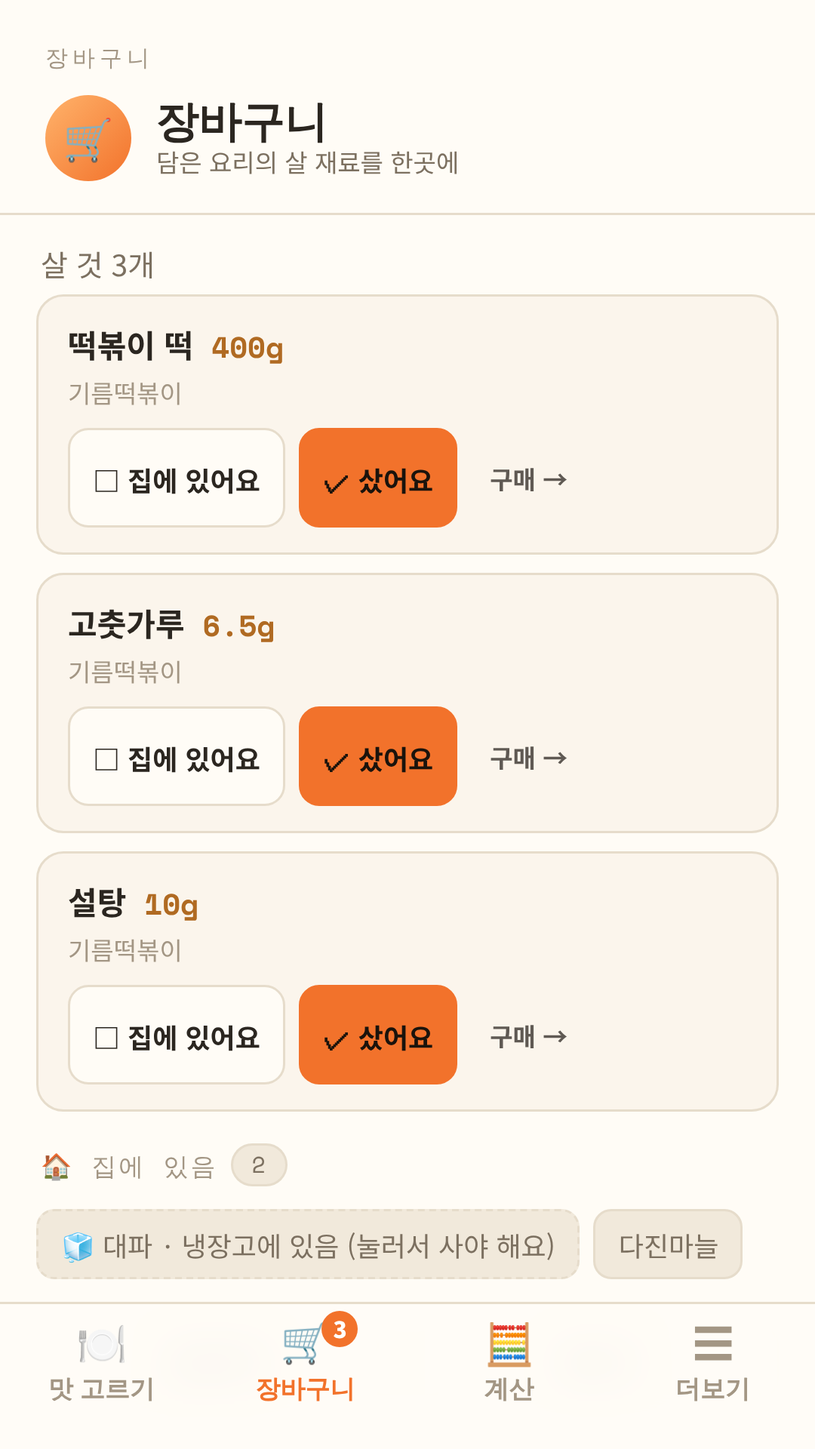
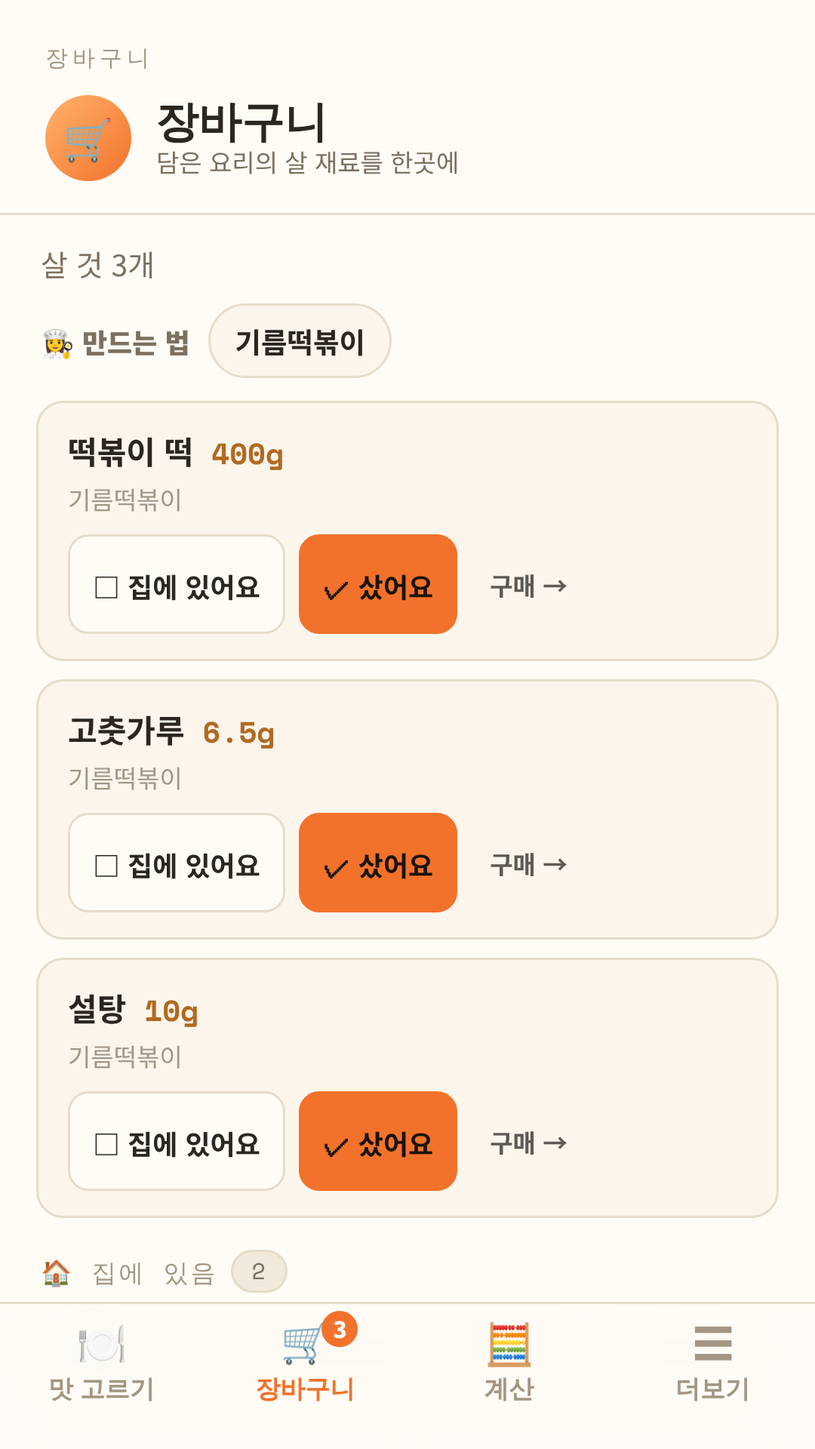
feat(cook): 맛 카드 요리 23개에 조리 순서, 만드는 법 화면, 장바구니에서 다시 열기
Claude-Session: https://claude.ai/code/session_017KWaKnS2P9UBMi724z59cy

diff --git a/cook/index.html b/cook/index.html
@@ -338,6 +338,20 @@
   .dish-serv{display:flex;align-items:center;gap:8px;margin:12px 0}
   .dish-serv span{font-size:12px;color:var(--muted);margin-right:4px}
   .dish-add{display:block;width:100%;font-family:var(--body);font-weight:900;font-size:14px;color:#1a130c;background:linear-gradient(135deg,#FFB36B,#FF8A4C);border:none;border-radius:13px;padding:13px;cursor:pointer}
+  .dish-how{display:block;width:100%;font-family:var(--body);font-weight:800;font-size:14px;color:var(--text);background:var(--surface);border:1px solid var(--border);border-radius:13px;padding:12px;margin-bottom:8px;cursor:pointer}
+  .dish-back,.dish-close{font-family:var(--body);font-weight:700;font-size:13px;color:var(--muted);background:none;border:none;padding:4px 0 10px;cursor:pointer}
+  .dish-close{display:block;width:100%;text-align:center;padding:12px 0 0}
+  .howto-sec{font-size:12px;font-weight:800;color:var(--muted);margin:12px 0 6px}
+  .howto-ing{list-style:none;margin:0;padding:0;display:grid;grid-template-columns:1fr 1fr;gap:4px 12px;font-size:13px}
+  .howto-ing li{display:flex;justify-content:space-between;gap:6px;border-bottom:1px dashed var(--border);padding:3px 0}
+  .howto-ing b{color:var(--accent);font-weight:800;white-space:nowrap}
+  .howto-steps{margin:0;padding-left:20px;font-size:14px;line-height:1.6}
+  .howto-steps li{margin-bottom:8px}
+  .howto-tip{font-size:12.5px;color:var(--muted);background:var(--surface);border-radius:10px;padding:9px 11px;margin:10px 0 14px}
+  .cart-cook{display:flex;flex-wrap:wrap;gap:6px;align-items:center;padding:4px 18px 10px}
+  .cart-cook:empty{display:none}
+  .cart-cook span{font-size:12px;font-weight:800;color:var(--muted);margin-right:2px}
+  .cart-cook button{font-family:var(--body);font-size:12.5px;font-weight:700;color:var(--text);background:var(--surface);border:1px solid var(--border);border-radius:99px;padding:6px 11px;cursor:pointer}
   .toastmsg{position:fixed;left:50%;bottom:calc(var(--navh) + env(safe-area-inset-bottom) + 64px);transform:translateX(-50%);background:#2B2620;color:#fff;border-radius:99px;padding:9px 16px;font-size:13px;font-weight:700;z-index:60;opacity:0;pointer-events:none;transition:opacity .2s;white-space:nowrap;max-width:90%}
   .toastmsg.show{opacity:1}
   .style-cart-btn{margin-top:10px}
@@ -569,6 +583,7 @@
       </div>
     </div>
     <div class="cart-sum" id="cartSum"></div>
+    <div class="cart-cook" id="cartCook"></div>
     <div id="cartList"></div>
     <div id="cartHomeHdr"></div>
     <div id="cartHome"></div>
@@ -1219,7 +1234,7 @@ STYLES.forEach(s=>{ const el=document.createElement("button"); el.className="chi
   styleChips.appendChild(el); });
 let _dishesReady=false;
 function showStyleDesc(){ const s=STYLE(calcState.stylePresetId); $("styleDesc").textContent=s.desc + (TEMPLATES[s.id]?" · (검증된 전용 레시피 적용)":"");
-  const sc=$("styleCart"); if(sc) sc.innerHTML=(_dishesReady&&TASTE_DISHES[s.id])?`<button class="sd-apply-btn style-cart-btn" id="styleCartBtn" onclick="openDishPicker('${s.id}')">🛒 살 재료 담기</button>`:""; }
+  const sc=$("styleCart"); if(sc) sc.innerHTML=(_dishesReady&&TASTE_DISHES[s.id])?`<button class="sd-apply-btn style-cart-btn" id="styleCartBtn" onclick="openDishPicker('${s.id}')">🛒 살 재료 · 만드는 법</button>`:""; }
 showStyleDesc();
 $("intensitySeg").addEventListener("click", e=>{ const b=e.target.closest("button"); if(!b)return;
   calcState.intensity=b.dataset.v; [...$("intensitySeg").children].forEach(x=>x.classList.toggle("on",x===b)); });
@@ -1953,7 +1968,7 @@ function renderSenseDetail(idx){
   const w=TASTE_WORDS[idx];
   const bars=SW_KEYS.map((k,ki)=>`<div class="sd-taste-item"><div class="sd-taste-label" style="color:${SW_COLORS[ki]}">${SW_LABELS[ki]}</div><div class="sd-taste-bar-wrap"><div class="sd-taste-bar" style="width:${(w.v[k]||0)*10}%;background:${SW_COLORS[ki]}"></div></div><div class="sd-taste-val">${(w.v[k]||0).toFixed(1)}</div></div>`).join("");
   const dishes=w.dishes.map(d=>`<button class="sd-dish-chip" onclick="goRecipe('${d.replace(/'/g,"\\'")}')">${d}</button>`).join("");
-  $("senseDetail").innerHTML=`<div class="sense-detail"><div class="sd-head"><div class="sd-em">${w.em}</div><div class="sd-left"><div class="sd-nm">${w.nm}</div></div></div><div class="sd-body"><div class="sd-desc">${w.desc}</div><div class="sd-taste-row">${bars}</div><div class="sd-dishes">${dishes}</div><button class="sd-apply-btn" onclick="applySenseToExplore(${idx})">🎚 이 맛으로 맛 그래프 열기</button>${w.sid?`<button class="sd-apply-btn" style="margin-top:8px" onclick="goCalcWithStyle('${w.sid}')">⚖ 이 맛으로 g 배합 계산하기</button>`:""}${w.sid&&TASTE_DISHES[w.sid]?`<button class="sd-apply-btn" style="margin-top:8px" onclick="openDishPicker('${w.sid}')">🛒 살 재료 담기</button>`:""}</div></div>`;
+  $("senseDetail").innerHTML=`<div class="sense-detail"><div class="sd-head"><div class="sd-em">${w.em}</div><div class="sd-left"><div class="sd-nm">${w.nm}</div></div></div><div class="sd-body"><div class="sd-desc">${w.desc}</div><div class="sd-taste-row">${bars}</div><div class="sd-dishes">${dishes}</div><button class="sd-apply-btn" onclick="applySenseToExplore(${idx})">🎚 이 맛으로 맛 그래프 열기</button>${w.sid?`<button class="sd-apply-btn" style="margin-top:8px" onclick="goCalcWithStyle('${w.sid}')">⚖ 이 맛으로 g 배합 계산하기</button>`:""}${w.sid&&TASTE_DISHES[w.sid]?`<button class="sd-apply-btn" style="margin-top:8px" onclick="openDishPicker('${w.sid}')">🛒 살 재료 · 만드는 법</button>`:""}</div></div>`;
 }
 function applySenseToExplore(idx){
   const w=TASTE_WORDS[idx];
@@ -2021,52 +2036,52 @@ const STYLE_VECTORS={
 /* 맛 → 대표 요리 (장바구니용). recipe가 있으면 RECIPES 재료 그대로, 없으면 main + 계산된 양념 */
 const TASTE_DISHES={
   pa_oil:[
-    {name:"파기름 볶음밥",emoji:"🍳",cat:"rice_bowl",gPerServing:165,main:[{name:"밥",per1:1,unit:"공기"},{name:"계란",per1:1,unit:"개"},{name:"대파",per1:0.5,unit:"대"}]},
+    {name:"파기름 볶음밥",steps:["대파를 송송 썰고, 계란은 그릇에 풀어 둬요.", "팬에 식용유와 대파를 넣고 약한 불에서 2~3분, 파가 노릇해지고 향이 날 때까지 볶아 파기름을 내요.", "파를 한쪽으로 밀고 계란을 부어 젓가락으로 휘저어 반쯤 익혀요.", "밥을 넣고 센 불로 올려 2분 볶아요. 양념은 팬 가장자리에 둘러 지글 끓인 뒤 밥과 섞어요.", "맛을 보고 싱거우면 소금을 조금씩 더해요."],emoji:"🍳",cat:"rice_bowl",gPerServing:165,main:[{name:"밥",per1:1,unit:"공기"},{name:"계란",per1:1,unit:"개"},{name:"대파",per1:0.5,unit:"대"}]},
     {name:"계란볶음밥",emoji:"🍚",recipe:"계란볶음밥",main:[]},
-    {name:"파기름 비빔국수",emoji:"🍜",cat:"noodle_pasta",gPerServing:165,main:[{name:"소면",per1:100,unit:"g"},{name:"대파",per1:1,unit:"대"}]}
+    {name:"파기름 비빔국수",steps:["대파를 아주 잘게 썰어요.", "작은 팬에 식용유와 대파를 넣고 약한 불에서 3분, 노릇해질 때까지 볶아 파기름을 만들어 식혀요.", "파기름에 양념 재료를 모두 넣고 섞어 양념장을 만들어요.", "소면을 끓는 물에 3분 삶고, 찬물에 비벼 헹궈 물기를 꼭 빼요.", "면에 양념장을 넣고 비벼요. 맛을 보고 모자라면 양념장을 조금씩 더해요."],emoji:"🍜",cat:"noodle_pasta",gPerServing:165,main:[{name:"소면",per1:100,unit:"g"},{name:"대파",per1:1,unit:"대"}]}
   ],
   oil_tteokbokki:[
-    {name:"기름떡볶이",emoji:"🔥",cat:"stir_fry",gPerServing:165,main:[{name:"떡볶이 떡",per1:200,unit:"g"},{name:"대파",per1:0.5,unit:"대"}]},
-    {name:"김말이 기름떡볶이",emoji:"🍢",cat:"stir_fry",gPerServing:165,main:[{name:"떡볶이 떡",per1:150,unit:"g"},{name:"김말이",per1:3,unit:"개"},{name:"대파",per1:0.5,unit:"대"}]},
-    {name:"어묵 볶음",emoji:"🍥",cat:"stir_fry",gPerServing:165,main:[{name:"어묵",per1:2,unit:"장"},{name:"양파",per1:0.5,unit:"개"}]}
+    {name:"기름떡볶이",steps:["떡이 딱딱하면 따뜻한 물에 5분 불리고, 대파는 송송 썰어요.", "양념 재료를 그릇에 모두 넣고 섞어요.", "팬에 식용유를 두르고 떡을 중불에서 3~4분, 겉이 살짝 노릇해질 때까지 볶아요.", "불을 약하게 줄이고 양념을 넣어 1~2분 볶아요. 고춧가루는 타기 쉬우니 계속 저어요.", "대파를 넣고 30초 더 볶아 마무리해요."],emoji:"🔥",cat:"stir_fry",gPerServing:165,main:[{name:"떡볶이 떡",per1:200,unit:"g"},{name:"대파",per1:0.5,unit:"대"}]},
+    {name:"김말이 기름떡볶이",steps:["떡은 따뜻한 물에 5분 불리고, 대파는 송송 썰어요.", "김말이는 에어프라이어 180℃에서 8분(또는 기름 두른 팬에서 굴리며 5분) 바삭하게 익혀요.", "양념 재료를 그릇에 모두 넣고 섞어요.", "팬에 식용유를 두르고 떡을 중불에서 3~4분 볶은 뒤, 약한 불에서 양념을 넣고 1~2분 볶아요.", "김말이와 대파를 넣고 30초 버무려 마무리해요."],emoji:"🍢",cat:"stir_fry",gPerServing:165,main:[{name:"떡볶이 떡",per1:150,unit:"g"},{name:"김말이",per1:3,unit:"개"},{name:"대파",per1:0.5,unit:"대"}]},
+    {name:"어묵 볶음",steps:["어묵은 한입 크기로, 양파는 채 썰어요.", "어묵을 끓는 물에 10초 데쳐 기름기를 빼요(생략해도 돼요).", "양념 재료를 그릇에 모두 넣고 섞어요.", "팬에 식용유를 두르고 양파를 중불에서 1분 볶다가 어묵을 넣고 1분 더 볶아요.", "양념을 넣고 1~2분 졸이듯 볶아요. 마지막에 참기름이나 깨를 뿌려도 좋아요."],emoji:"🍥",cat:"stir_fry",gPerServing:165,main:[{name:"어묵",per1:2,unit:"장"},{name:"양파",per1:0.5,unit:"개"}]}
   ],
   maepdan:[
-    {name:"매콤 제육볶음",emoji:"🥩",cat:"stir_fry",gPerServing:280,main:[{name:"돼지고기 앞다리살",per1:200,unit:"g"},{name:"양파",per1:0.5,unit:"개"},{name:"대파",per1:0.5,unit:"대"}]},
-    {name:"매콤 닭볶음",emoji:"🍗",cat:"braise",gPerServing:300,main:[{name:"닭다리살",per1:200,unit:"g"},{name:"감자",per1:0.5,unit:"개"},{name:"양파",per1:0.5,unit:"개"}]},
+    {name:"매콤 제육볶음",steps:["고기는 한입 크기로, 양파는 채, 대파는 어슷하게 썰어요.", "양념 재료를 모두 섞어 고기에 버무리고 10분 재워요(바쁘면 바로 해도 돼요).", "팬에 식용유를 두르고 고기를 중불에서 5분, 분홍빛이 없어질 때까지 볶아요.", "양파를 넣고 2~3분 더 볶아요. 양념이 타면 물을 2큰술 넣어요.", "대파를 넣고 30초 볶아 마무리해요. 고기를 하나 잘라 속까지 익었는지 확인해요."],emoji:"🥩",cat:"stir_fry",gPerServing:280,main:[{name:"돼지고기 앞다리살",per1:200,unit:"g"},{name:"양파",per1:0.5,unit:"개"},{name:"대파",per1:0.5,unit:"대"}]},
+    {name:"매콤 닭볶음",steps:["닭고기는 한입 크기로, 감자는 큼직하게, 양파는 큼직하게 썰어요.", "양념 재료를 모두 섞어 양념장을 만들어요.", "냄비에 닭고기·감자·양념장과 물을 1인분에 반 컵(100ml)씩 넣고 센 불에서 끓여요.", "끓으면 중불로 줄여 뚜껑을 덮고 15분 졸여요. 중간에 한 번 섞어요.", "양파를 넣고 5분 더 졸여요. 감자가 젓가락으로 쑥 들어가면 완성이에요."],emoji:"🍗",cat:"braise",gPerServing:300,main:[{name:"닭다리살",per1:200,unit:"g"},{name:"감자",per1:0.5,unit:"개"},{name:"양파",per1:0.5,unit:"개"}]},
     {name:"떡볶이",emoji:"🌶",recipe:"떡볶이",main:[]}
   ],
   dan_jjan:[
-    {name:"소불고기",emoji:"🥩",cat:"stir_fry",gPerServing:230,main:[{name:"불고기용 소고기",per1:150,unit:"g"},{name:"양파",per1:0.5,unit:"개"},{name:"대파",per1:0.5,unit:"대"}]},
-    {name:"간장 닭조림",emoji:"🍗",cat:"braise",gPerServing:230,main:[{name:"닭다리살",per1:200,unit:"g"},{name:"감자",per1:0.5,unit:"개"}]},
+    {name:"소불고기",steps:["고기는 키친타월로 핏물을 살짝 닦고, 양파는 채, 대파는 어슷하게 썰어요.", "양념 재료를 모두 섞어 고기에 버무리고 15분 재워요.", "팬을 중불로 달군 뒤 고기와 양파를 넣고 4~5분 볶아요.", "국물이 자작하게 졸아들면 대파를 넣고 30초 더 볶아요.", "맛을 보고 싱거우면 간장을 조금 더해요."],emoji:"🥩",cat:"stir_fry",gPerServing:230,main:[{name:"불고기용 소고기",per1:150,unit:"g"},{name:"양파",per1:0.5,unit:"개"},{name:"대파",per1:0.5,unit:"대"}]},
+    {name:"간장 닭조림",steps:["닭고기는 한입 크기로, 감자는 큼직하게 썰어요.", "양념 재료를 모두 섞어 양념장을 만들어요.", "팬에 식용유를 두르고 닭고기 껍질 쪽부터 중불에서 4분 노릇하게 구워요.", "감자·양념장과 물을 1인분에 4큰술(50ml)씩 넣고 끓으면 뚜껑을 덮어 중약불에서 12분 졸여요.", "뚜껑을 열고 국물이 걸쭉해질 때까지 2~3분 더 졸이며 뒤적여요."],emoji:"🍗",cat:"braise",gPerServing:230,main:[{name:"닭다리살",per1:200,unit:"g"},{name:"감자",per1:0.5,unit:"개"}]},
     {name:"참치마요덮밥",emoji:"🍚",recipe:"참치마요덮밥",main:[]}
   ],
   chodding:[
-    {name:"소시지 야채볶음",emoji:"🌭",cat:"stir_fry",gPerServing:200,main:[{name:"비엔나소시지",per1:100,unit:"g"},{name:"양파",per1:0.5,unit:"개"},{name:"파프리카",per1:0.5,unit:"개"}]},
-    {name:"달콤 닭강정",emoji:"🍗",cat:"stir_fry",gPerServing:200,main:[{name:"닭다리살",per1:200,unit:"g"},{name:"튀김가루",per1:30,unit:"g"}]},
+    {name:"소시지 야채볶음",steps:["소시지는 칼집을 내고, 양파와 파프리카는 한입 크기로 썰어요.", "양념 재료를 그릇에 모두 넣고 섞어요.", "팬에 식용유를 두르고 소시지를 중불에서 2분 볶아요.", "양파와 파프리카를 넣고 2분 더 볶아요.", "양념을 넣고 1분 볶아 골고루 묻혀요."],emoji:"🌭",cat:"stir_fry",gPerServing:200,main:[{name:"비엔나소시지",per1:100,unit:"g"},{name:"양파",per1:0.5,unit:"개"},{name:"파프리카",per1:0.5,unit:"개"}]},
+    {name:"달콤 닭강정",steps:["닭고기는 한입 크기로 썰어 튀김가루를 골고루 묻혀요.", "팬에 식용유를 1cm 높이로 붓고 중불에서 닭을 5~6분, 노릇하게 뒤집어 가며 튀기듯 구워요.", "닭을 건져 기름을 빼고, 팬의 기름은 키친타월로 닦아요.", "같은 팬에 양념 재료를 모두 넣고 약한 불에서 끓어오르면 1분 졸여요.", "닭을 넣고 30초 버무려 양념을 입혀요."],emoji:"🍗",cat:"stir_fry",gPerServing:200,main:[{name:"닭다리살",per1:200,unit:"g"},{name:"튀김가루",per1:30,unit:"g"}]},
     {name:"참치마요덮밥",emoji:"🍚",recipe:"참치마요덮밥",main:[]}
   ],
   honey_butter:[
-    {name:"허니버터 감자구이",emoji:"🥔",cat:"grill",gPerServing:250,main:[{name:"감자",per1:1,unit:"개"},{name:"버터",per1:10,unit:"g"}]},
-    {name:"허니버터 고구마",emoji:"🍠",cat:"grill",gPerServing:250,main:[{name:"고구마",per1:1,unit:"개"},{name:"버터",per1:10,unit:"g"}]},
-    {name:"허니버터 토스트",emoji:"🍞",cat:"grill",gPerServing:100,main:[{name:"식빵",per1:2,unit:"장"},{name:"버터",per1:10,unit:"g"}]}
+    {name:"허니버터 감자구이",steps:["감자는 껍질째 깨끗이 씻어 반달 모양으로 썰어요.", "전자레인지용 그릇에 감자와 물 2큰술을 넣고 랩을 씌워 5분 돌려 익혀요.", "팬에 버터를 녹이고 감자를 중불에서 4~5분, 겉이 노릇해질 때까지 구워요.", "불을 약하게 줄이고 양념 재료를 넣어 30초 버무려요."],emoji:"🥔",cat:"grill",gPerServing:250,main:[{name:"감자",per1:1,unit:"개"},{name:"버터",per1:10,unit:"g"}]},
+    {name:"허니버터 고구마",steps:["고구마는 깨끗이 씻어 1cm 두께로 동그랗게 썰어요.", "전자레인지용 그릇에 고구마와 물 2큰술을 넣고 랩을 씌워 5분 돌려 익혀요.", "팬에 버터를 녹이고 고구마를 중불에서 앞뒤로 2분씩 노릇하게 구워요.", "불을 약하게 줄이고 양념 재료를 넣어 30초 버무려요."],emoji:"🍠",cat:"grill",gPerServing:250,main:[{name:"고구마",per1:1,unit:"개"},{name:"버터",per1:10,unit:"g"}]},
+    {name:"허니버터 토스트",steps:["버터는 실온에 꺼내 부드럽게 해 두고, 양념 재료와 섞어요.", "식빵 한쪽 면에 섞은 버터를 골고루 펴 발라요.", "약한 불로 달군 팬에 발라 둔 면이 아래로 가게 올려 2분 구워요.", "뒤집어서 1분 더 구워 양쪽이 노릇하면 완성이에요."],emoji:"🍞",cat:"grill",gPerServing:100,main:[{name:"식빵",per1:2,unit:"장"},{name:"버터",per1:10,unit:"g"}]}
   ],
   fire_wok:[
-    {name:"불맛 볶음밥",emoji:"🔥",cat:"rice_bowl",gPerServing:200,main:[{name:"밥",per1:1,unit:"공기"},{name:"계란",per1:1,unit:"개"},{name:"대파",per1:0.5,unit:"대"}]},
-    {name:"소고기 채소볶음",emoji:"🥬",cat:"stir_fry",gPerServing:200,main:[{name:"소고기 불고기감",per1:120,unit:"g"},{name:"양배추",per1:100,unit:"g"},{name:"양파",per1:0.5,unit:"개"}]},
+    {name:"불맛 볶음밥",steps:["대파는 송송 썰고, 계란은 풀어 두고, 밥은 미리 꺼내 식혀 둬요(찬밥이 더 잘 볶여요).", "팬을 센 불로 연기가 날 때까지 달군 뒤 식용유와 대파를 넣고 30초 볶아요.", "계란을 붓고 휘저어 반쯤 익으면 밥을 넣고 센 불에서 2분 볶아요.", "양념을 팬 가장자리에 둘러 지글 끓게 한 뒤 섞어요. 이때 나는 탄 향이 불맛이에요.", "맛을 보고 싱거우면 소금을 조금씩 더해요."],emoji:"🔥",cat:"rice_bowl",gPerServing:200,main:[{name:"밥",per1:1,unit:"공기"},{name:"계란",per1:1,unit:"개"},{name:"대파",per1:0.5,unit:"대"}]},
+    {name:"소고기 채소볶음",steps:["양배추와 양파는 한입 크기로 썰고, 양념 재료는 그릇에 섞어 둬요.", "팬을 센 불로 달군 뒤 식용유를 두르고 고기를 2분 볶아 꺼내 둬요.", "같은 팬에 양배추와 양파를 넣고 센 불에서 2분 볶아요.", "고기를 다시 넣고 양념을 둘러 1분 더 볶아요."],emoji:"🥬",cat:"stir_fry",gPerServing:200,main:[{name:"소고기 불고기감",per1:120,unit:"g"},{name:"양배추",per1:100,unit:"g"},{name:"양파",per1:0.5,unit:"개"}]},
     {name:"계란볶음밥",emoji:"🍳",recipe:"계란볶음밥",main:[]}
   ],
   eolkeun:[
-    {name:"얼큰 김치찌개",emoji:"🍲",cat:"stew",gPerServing:400,main:[{name:"김치",per1:150,unit:"g"},{name:"돼지고기 목살",per1:100,unit:"g"},{name:"두부",per1:0.25,unit:"모"},{name:"대파",per1:0.5,unit:"대"}]},
-    {name:"얼큰 순두부찌개",emoji:"🥘",cat:"stew",gPerServing:400,main:[{name:"순두부",per1:0.5,unit:"봉"},{name:"애호박",per1:0.25,unit:"개"},{name:"대파",per1:0.5,unit:"대"}]}
+    {name:"얼큰 김치찌개",steps:["김치와 고기는 한입 크기로, 두부는 깍둑, 대파는 어슷하게 썰어요.", "냄비에 식용유를 두르고 고기를 중불에서 2분 볶다가 김치를 넣고 3분 더 볶아요.", "물을 1인분에 2컵(400ml)씩 붓고, 양념 재료를 넣어 센 불에서 끓여요.", "끓으면 중불로 줄여 10분 끓여요.", "두부와 대파를 넣고 3분 더 끓인 뒤, 맛을 보고 싱거우면 김치 국물을 조금 더해요."],emoji:"🍲",cat:"stew",gPerServing:400,main:[{name:"김치",per1:150,unit:"g"},{name:"돼지고기 목살",per1:100,unit:"g"},{name:"두부",per1:0.25,unit:"모"},{name:"대파",per1:0.5,unit:"대"}]},
+    {name:"얼큰 순두부찌개",steps:["애호박은 반달 모양으로, 대파는 송송 썰어요.", "뚝배기나 냄비에 식용유와 양념 재료를 넣고 약한 불에서 1분 볶아 고추기름을 내요.", "물을 1인분에 1컵(200ml)씩, 애호박과 함께 넣고 센 불에서 끓여요.", "끓으면 순두부를 큼직하게 떠 넣고 중불에서 4분 끓여요. 너무 젓지 마세요.", "대파를 넣고, 계란을 하나 깨 넣어도 좋아요. 1분 더 끓이면 완성이에요."],emoji:"🥘",cat:"stew",gPerServing:400,main:[{name:"순두부",per1:0.5,unit:"봉"},{name:"애호박",per1:0.25,unit:"개"},{name:"대파",per1:0.5,unit:"대"}]}
   ],
   mala:[
-    {name:"마라 볶음면",emoji:"🍜",cat:"noodle_pasta",gPerServing:180,main:[{name:"중화면",per1:1,unit:"인분"},{name:"청경채",per1:2,unit:"포기"},{name:"숙주",per1:50,unit:"g"}]},
-    {name:"마라 두부볶음",emoji:"🧈",cat:"stir_fry",gPerServing:180,main:[{name:"두부",per1:0.5,unit:"모"},{name:"청경채",per1:2,unit:"포기"},{name:"양파",per1:0.5,unit:"개"}]},
-    {name:"마라 닭볶음",emoji:"🍗",cat:"stir_fry",gPerServing:180,main:[{name:"닭다리살",per1:200,unit:"g"},{name:"양파",per1:0.5,unit:"개"},{name:"피망",per1:0.5,unit:"개"}]}
+    {name:"마라 볶음면",steps:["청경채는 반으로 가르고, 숙주는 씻어 물기를 빼요.", "면은 봉지에 적힌 시간대로 삶아 찬물에 헹궈 물기를 빼요.", "팬에 식용유와 양념 재료를 넣고 약한 불에서 1분 볶아 향을 내요.", "청경채와 숙주를 넣고 중불에서 1분 볶은 뒤 면을 넣어 1~2분 볶아요.", "매운 정도를 맛보고, 너무 얼얼하면 설탕을 조금 더해요."],emoji:"🍜",cat:"noodle_pasta",gPerServing:180,main:[{name:"중화면",per1:1,unit:"인분"},{name:"청경채",per1:2,unit:"포기"},{name:"숙주",per1:50,unit:"g"}]},
+    {name:"마라 두부볶음",steps:["두부는 깍둑 썰어 키친타월로 물기를 빼고, 청경채와 양파는 한입 크기로 썰어요.", "팬에 식용유를 두르고 두부를 중불에서 4~5분, 겉이 노릇해질 때까지 구워 꺼내요.", "같은 팬에 양념 재료를 넣고 약한 불에서 1분 볶아 향을 내요.", "양파와 청경채를 넣고 중불에서 2분 볶아요.", "두부를 다시 넣고 1분 살살 버무려요."],emoji:"🧈",cat:"stir_fry",gPerServing:180,main:[{name:"두부",per1:0.5,unit:"모"},{name:"청경채",per1:2,unit:"포기"},{name:"양파",per1:0.5,unit:"개"}]},
+    {name:"마라 닭볶음",steps:["닭고기는 한입 크기로, 양파와 피망은 큼직하게 썰어요.", "팬에 식용유를 두르고 닭고기를 중불에서 5~6분, 속까지 익을 때까지 볶아요.", "불을 약하게 줄이고 양념 재료를 넣어 1분 볶아 향을 내요.", "양파와 피망을 넣고 중불에서 2분 더 볶아요.", "닭을 하나 잘라 속이 하얗게 익었는지 확인해요."],emoji:"🍗",cat:"stir_fry",gPerServing:180,main:[{name:"닭다리살",per1:200,unit:"g"},{name:"양파",per1:0.5,unit:"개"},{name:"피망",per1:0.5,unit:"개"}]}
   ],
   chojang:[
-    {name:"골뱅이무침",emoji:"🥗",cat:"muchim",gPerServing:165,main:[{name:"골뱅이 통조림",per1:0.5,unit:"캔"},{name:"오이",per1:0.5,unit:"개"},{name:"양파",per1:0.5,unit:"개"}]},
-    {name:"오이 초무침",emoji:"🥒",cat:"muchim",gPerServing:150,main:[{name:"오이",per1:1,unit:"개"},{name:"양파",per1:0.25,unit:"개"}]},
+    {name:"골뱅이무침",steps:["골뱅이는 체에 밭쳐 국물을 빼고 큰 것은 반으로 잘라요.", "오이는 어슷하게, 양파는 얇게 채 썰어 찬물에 5분 담갔다 물기를 빼요(매운맛이 빠져요).", "양념 재료를 큰 그릇에 모두 넣고 섞어 양념장을 만들어요.", "골뱅이·오이·양파를 넣고 살살 버무려요.", "맛을 보고 새콤함이 모자라면 식초를 조금씩 더해요. 소면을 삶아 곁들여도 좋아요."],emoji:"🥗",cat:"muchim",gPerServing:165,main:[{name:"골뱅이 통조림",per1:0.5,unit:"캔"},{name:"오이",per1:0.5,unit:"개"},{name:"양파",per1:0.5,unit:"개"}]},
+    {name:"오이 초무침",steps:["오이는 얇게 어슷하게, 양파는 얇게 채 썰어요.", "오이에 소금 한 꼬집을 뿌려 10분 두었다가 물기를 꼭 짜요.", "양념 재료를 그릇에 모두 넣고 섞어요.", "오이와 양파를 넣고 버무려 바로 먹거나, 냉장고에 10분 두면 더 맛있어요."],emoji:"🥒",cat:"muchim",gPerServing:150,main:[{name:"오이",per1:1,unit:"개"},{name:"양파",per1:0.25,unit:"개"}]},
     {name:"해물파전",emoji:"🥞",recipe:"해물파전",main:[]}
   ]
 };
@@ -2171,6 +2186,8 @@ function renderCart(){
       (it.from&&it.from.length?`<div class="cr-from">${esc(it.from.join(" · "))}</div>`:"")+
       `<div class="cr-acts"><button class="cart-btn" data-act="home" data-name="${na}">□ 집에 있어요</button><button class="cart-btn primary" data-act="bought" data-name="${na}">✓ 샀어요</button><span class="cart-buy"><a href="${escAttr(buyUrl(it.name))}" data-buy="${na}" rel="noopener">구매 →</a></span></div></div>`;
   }).join(""):`<div class="empty" style="padding:30px 20px">${home.length?"살 재료가 없어요 🎉":"장바구니가 비어 있어요.<br>맛·식단에서 재료를 담아보세요 🛒"}</div>`;
+  const cookNames=[...new Set(loadCart().flatMap(it=>it.from||[]))].filter(n=>findDish(n));
+  $("cartCook").innerHTML=cookNames.length?`<span>👩🍳 만드는 법</span>${cookNames.map(n=>`<button data-cook="${escAttr(n)}">${esc(n)}</button>`).join("")}`:"";
   $("cartHomeHdr").innerHTML=home.length?`<div class="savedhdr">🏠 집에 있음 <span>${home.length}</span></div>`:"";
   $("cartHome").innerHTML=home.length?`<div class="cart-homewrap">${home.map(it=>loadHome().includes(it.name)?`<button data-name="${escAttr(it.name)}" title="눌러서 되돌리기">${esc(it.name)}</button>`:`<button class="cart-fridge" data-need="${escAttr(it.name)}">🧊 ${esc(it.name)} · 냉장고에 있음 (눌러서 사야 해요)</button>`).join("")}</div>`:"";
   updateCartBadge();
@@ -2182,6 +2199,7 @@ $("cartList").addEventListener("click",e=>{
 $("cartHome").addEventListener("click",e=>{
   const nb=e.target.closest("button[data-need]"); if(nb){ setNeed(nb.dataset.need,true); renderCart(); return; }
   const b=e.target.closest("button[data-name]"); if(!b) return; setHome(b.dataset.name,false); renderCart(); });
+$("cartCook").addEventListener("click",e=>{ const b=e.target.closest("button[data-cook]"); if(b) openHowTo(b.dataset.cook); });
 $("cartClear").onclick=()=>{ if(!confirm("장바구니를 모두 비울까요?")) return; clearCart(); renderCart(); };
 $("cartShare").onclick=shareCart;
 if(isNative()&&$("frNotif")) $("frNotif").style.display="none";
@@ -2195,13 +2213,46 @@ _dishesReady=true; showStyleDesc();
 
 /* ── 요리 고르기 시트 ── */
 function closeDishSheet(){ $("dishSheet").classList.remove("show"); $("dishSheet").innerHTML=""; }
+const COOK_SERV_KEY="cj_cook_serv";
+function loadCookServ(){ try{ const o=JSON.parse(localStorage.getItem(COOK_SERV_KEY)||"{}"); return o&&typeof o==="object"?o:{}; }catch(e){ return {}; } }
+function saveCookServ(name,serv){ try{ const o=loadCookServ(); o[name]=serv; localStorage.setItem(COOK_SERV_KEY, JSON.stringify(o)); }catch(e){} }
+/* 요리 이름 → {styleId, dish}. 맛 카드 요리가 없으면 요리 레시피에서 찾는다. */
+function findDish(name){
+  for(const sid in TASTE_DISHES){ const d=TASTE_DISHES[sid].find(x=>x.name===name); if(d) return {styleId:sid,dish:d}; }
+  const r=RECIPES.find(x=>x.name===name);
+  return r?{styleId:null,dish:{name:r.name,emoji:r.emoji,recipe:r.name,main:[]}}:null;
+}
+function dishSteps(dish){
+  if(dish.steps) return {steps:dish.steps,tip:""};
+  const r=dish.recipe&&RECIPES.find(x=>x.name===dish.recipe);
+  return r?{steps:r.steps||[],tip:r.tip||""}:{steps:[],tip:""};
+}
+function howToHtml(styleId,dish,serv){
+  const lines=dishLines(styleId,dish,serv), st=dishSteps(dish);
+  return `<h3>${esc(dish.emoji||"")} ${esc(dish.name)} · ${serv}인분</h3>`+
+    `<div class="howto-sec">재료</div><ul class="howto-ing">${lines.map(l=>`<li><span>${esc(l.name)}</span><b>${esc(l.qty)}</b></li>`).join("")}</ul>`+
+    `<div class="howto-sec">만드는 법</div><ol class="howto-steps">${st.steps.map(t=>`<li>${esc(t)}</li>`).join("")}</ol>`+
+    `<p class="howto-tip">💡 ${esc(st.tip||"양념은 80%만 먼저 넣고, 맛을 보며 조금씩 더하세요.")}</p>`;
+}
+/* 장바구니에서 바로 '만드는 법' 열기 */
+function openHowTo(name){
+  const f=findDish(name); if(!f) return;
+  const serv=loadCookServ()[name]||2, sh=$("dishSheet");
+  sh.innerHTML=`<div class="dishsheet" role="dialog" aria-label="만드는 법">${howToHtml(f.styleId,f.dish,serv)}<button class="dish-close">닫기</button></div>`;
+  sh.classList.add("show");
+  sh.onclick=e=>{ if(e.target===sh||e.target.closest(".dish-close")) closeDishSheet(); };
+}
 function openDishPicker(styleId){
   const dishes=TASTE_DISHES[styleId]; if(!dishes||!dishes.length) return;
-  let di=0, serv=2;
+  let di=0, serv=2, how=false;
   const sh=$("dishSheet");
   const draw=()=>{
-    sh.innerHTML=`<div class="dishsheet" role="dialog" aria-label="요리 고르기"><h3>어떤 요리를 만들까요?</h3><div class="dish-list">${dishes.map((d,i)=>`<button class="dish-opt${i===di?" on":""}" data-i="${i}">${esc(d.emoji||"")} ${esc(d.name)}</button>`).join("")}</div>`+
-      `<div class="dish-serv"><span>인분</span>${[1,2,4].map(n=>`<button class="chip${n===serv?" on":""}" data-serv="${n}">${n}</button>`).join("")}</div><button class="dish-add">🛒 장바구니에 담기</button></div>`;
+    const d=dishes[di];
+    sh.innerHTML=how
+      ? `<div class="dishsheet" role="dialog" aria-label="만드는 법"><button class="dish-back">← 요리 목록</button>${howToHtml(styleId,d,serv)}<button class="dish-add">🛒 이 재료 장바구니에 담기</button></div>`
+      : `<div class="dishsheet" role="dialog" aria-label="요리 고르기"><h3>어떤 요리를 만들까요?</h3><div class="dish-list">${dishes.map((x,i)=>`<button class="dish-opt${i===di?" on":""}" data-i="${i}">${esc(x.emoji||"")} ${esc(x.name)}</button>`).join("")}</div>`+
+        `<div class="dish-serv"><span>인분</span>${[1,2,4].map(n=>`<button class="chip${n===serv?" on":""}" data-serv="${n}">${n}</button>`).join("")}</div><button class="dish-how">👩🍳 만드는 법 보기</button><button class="dish-add">🛒 장바구니에 담기</button></div>`;
+    const box=sh.querySelector(".dishsheet"); if(box) box.scrollTop=0;
   };
   draw(); sh.classList.add("show");
   sh.onclick=e=>{
@@ -2209,7 +2260,9 @@ function openDishPicker(styleId){
     const o=e.target.closest(".dish-opt"), sv=e.target.closest("[data-serv]"), ad=e.target.closest(".dish-add");
     if(o){ di=+o.dataset.i; draw(); }
     else if(sv){ serv=+sv.dataset.serv; draw(); }
-    else if(ad){ const d=dishes[di]; addToCart(dishLines(styleId,d,serv), d.name); closeDishSheet(); updateCartBadge(); toast("담았어요 · 장바구니 "+loadCart().length+"개"); }
+    else if(e.target.closest(".dish-how")){ how=true; draw(); }
+    else if(e.target.closest(".dish-back")){ how=false; draw(); }
+    else if(ad){ const d=dishes[di]; addToCart(dishLines(styleId,d,serv), d.name); saveCookServ(d.name,serv); closeDishSheet(); updateCartBadge(); toast("담았어요 · 장바구니 "+loadCart().length+"개"); }
   };
 }
 </script>

diff --git a/cook/tests/howto.test.js b/cook/tests/howto.test.js
@@ -1,0 +1,65 @@
+const { test } = require("node:test");
+const assert = require("node:assert");
+const { openApp } = require("./helpers");
+
+async function withApp(fn) {
+  const { browser, page } = await openApp({ device: "Pixel 7" });
+  page.setDefaultTimeout(4000);
+  try { await fn(page); assert.deepStrictEqual(page.__errors, []); } finally { await browser.close(); }
+}
+
+test("맛 카드의 모든 요리에 조리 순서가 3단계 이상 있다", () => withApp(async page => {
+  const bad = await page.evaluate(() => {
+    const out = [];
+    for (const sid in TASTE_DISHES) for (const d of TASTE_DISHES[sid]) {
+      const st = dishSteps(d).steps;
+      if (!Array.isArray(st) || st.length < 3 || st.some(t => typeof t !== "string" || t.length < 8)) out.push(sid + "/" + d.name);
+    }
+    return out;
+  });
+  assert.deepStrictEqual(bad, []);
+}));
+
+test("요리 고르기 → 만드는 법: 재료 양과 순서가 보이고, 인분이 반영된다", () => withApp(async page => {
+  await page.click(".scard:has-text('기름떡볶이맛')");
+  await page.click("text=살 재료 · 만드는 법");
+  await page.click("#dishSheet .dish-opt >> nth=0");
+  await page.click('#dishSheet [data-serv="4"]');
+  await page.click("#dishSheet .dish-how");
+  const t = await page.innerText("#dishSheet");
+  assert.ok(t.includes("기름떡볶이 · 4인분"), t);
+  assert.ok(t.includes("800g"), "떡 4인분 = 800g: " + t);
+  assert.ok(await page.locator("#dishSheet .howto-steps li").count() >= 3);
+  // 목록으로 돌아가기, 그리고 만드는 법 화면에서 바로 담기
+  await page.click("#dishSheet .dish-back");
+  assert.ok((await page.innerText("#dishSheet")).includes("어떤 요리를 만들까요?"));
+  await page.click("#dishSheet .dish-how");
+  await page.click("#dishSheet .dish-add");
+  await page.click('.nav button[data-view="cart"]');
+  assert.ok((await page.innerText("#cartList")).includes("800g"));
+}));
+
+test("레시피에 연결된 요리(떡볶이)도 만드는 법이 나온다", () => withApp(async page => {
+  const n = await page.evaluate(() => { const f = findDish("떡볶이"); return dishSteps(f.dish).steps.length; });
+  assert.ok(n >= 3);
+}));
+
+test("장바구니에서 담은 요리의 만드는 법을 다시 열 수 있고, 담을 때 고른 인분을 기억한다", () => withApp(async page => {
+  await page.click(".scard:has-text('기름떡볶이맛')");
+  await page.click("text=살 재료 · 만드는 법");
+  await page.click("#dishSheet .dish-opt >> nth=0");
+  await page.click('#dishSheet [data-serv="1"]');
+  await page.click("#dishSheet .dish-add");
+  await page.click('.nav button[data-view="cart"]');
+  await page.click('#cartCook button[data-cook="기름떡볶이"]');
+  const t = await page.innerText("#dishSheet");
+  assert.ok(t.includes("기름떡볶이 · 1인분"), t);
+  assert.ok(t.includes("200g"), t);
+  await page.click("#dishSheet .dish-close");
+  assert.strictEqual(await page.locator("#dishSheet.show").count(), 0);
+}));
+
+test("빈 장바구니에는 만드는 법 줄이 없다", () => withApp(async page => {
+  await page.click('.nav button[data-view="cart"]');
+  assert.strictEqual((await page.innerText("#cartCook")).trim(), "");
+}));

diff --git a/cook/tests/nav.test.js b/cook/tests/nav.test.js
@@ -61,7 +61,7 @@ test("goSauce 뒤 더보기 탭 강조", () => withApp({}, async page => {
 test("빈 장바구니 배지 숨김 / 담으면 숫자", () => withApp({}, async page => {
   assert.strictEqual(await page.locator("#cartCount").isVisible(), false);
   await page.click(".scard:has-text('기름떡볶이맛')");
-  await page.click("text=살 재료 담기");
+  await page.click("text=살 재료 · 만드는 법");
   await page.click("#dishSheet .dish-opt >> nth=0");
   await page.click("#dishSheet .dish-add");
   assert.ok(await page.locator("#cartCount").isVisible());

diff --git a/cook/tests/privacy.test.js b/cook/tests/privacy.test.js
@@ -52,7 +52,7 @@ test("저장 탭 하단에 개인정보처리방침 링크가 있다", async () 
 test("서비스워커 캐시에 privacy.html이 들어가고 버전이 올라갔다", () => {
   const sw = fs.readFileSync(path.join(__dirname, "..", "sw.js"), "utf8");
   assert.ok(sw.includes('"./privacy.html"'));
-  assert.ok(sw.includes('const CACHE = "jeonjahyeo-v11"'));
+  assert.ok(sw.includes('const CACHE = "jeonjahyeo-v12"'));
 });
 
 test("개인정보처리방침의 돌아가기는 저장한 배합 화면으로 복귀", async () => {

diff --git a/cook/tests/cart-ui.test.js b/cook/tests/cart-ui.test.js
@@ -17,7 +17,7 @@ async function goMore(page, viewId) {
 async function addOilTteokbokki(page) {
   await page.click('.nav button[data-view="sense"]');
   await page.click(".scard:has-text('기름떡볶이맛')");
-  await page.click("text=살 재료 담기");
+  await page.click("text=살 재료 · 만드는 법");
   await page.click("#dishSheet .dish-opt >> nth=0");
   await page.click('#dishSheet [data-serv="2"]');
   await page.click("#dishSheet .dish-add");

diff --git a/cook/sw.js b/cook/sw.js
@@ -1,5 +1,5 @@
 /* 전자혀 서비스워커 — 오프라인 + 빠른 로딩 */
-const CACHE = "jeonjahyeo-v11";
+const CACHE = "jeonjahyeo-v12";
 const ASSETS = [
   "./", "./index.html", "./manifest.webmanifest",
   "./privacy.html", "./icon-192.png", "./icon-512.png", "./apple-touch-icon.png"

diff --git a/cook/docs/RELEASE.md b/cook/docs/RELEASE.md
@@ -110,6 +110,7 @@
 ■ 이런 걸 할 수 있어요
 • 요즘 말하는 맛: 파기름맛, 기름떡볶이맛, 맵달, 단짠단짠, 초딩입맛… 땡기는 맛을 고르면 어울리는 요리가 나와요.
 • 장바구니: 요리와 인분을 고르면 살 재료와 양이 한곳에 모여요. 집에 있는 건 빼고, 목록을 카톡 등으로 공유할 수 있어요.
+• 만드는 법: 고른 인분에 맞춘 재료 양과 조리 순서를 단계별로 보여 줘요. 장 보고 와서 장바구니에서 바로 다시 열 수 있어요.
 • 맛 계산: 음식 무게와 원하는 맛을 고르면 간장·설탕·소금 같은 양념을 g과 숟가락 단위로 알려 줘요.
 • "밍밍해요", "너무 짜요" 같은 맛 보정, 냉장고·식단·소스까지 한 앱에서.
 
